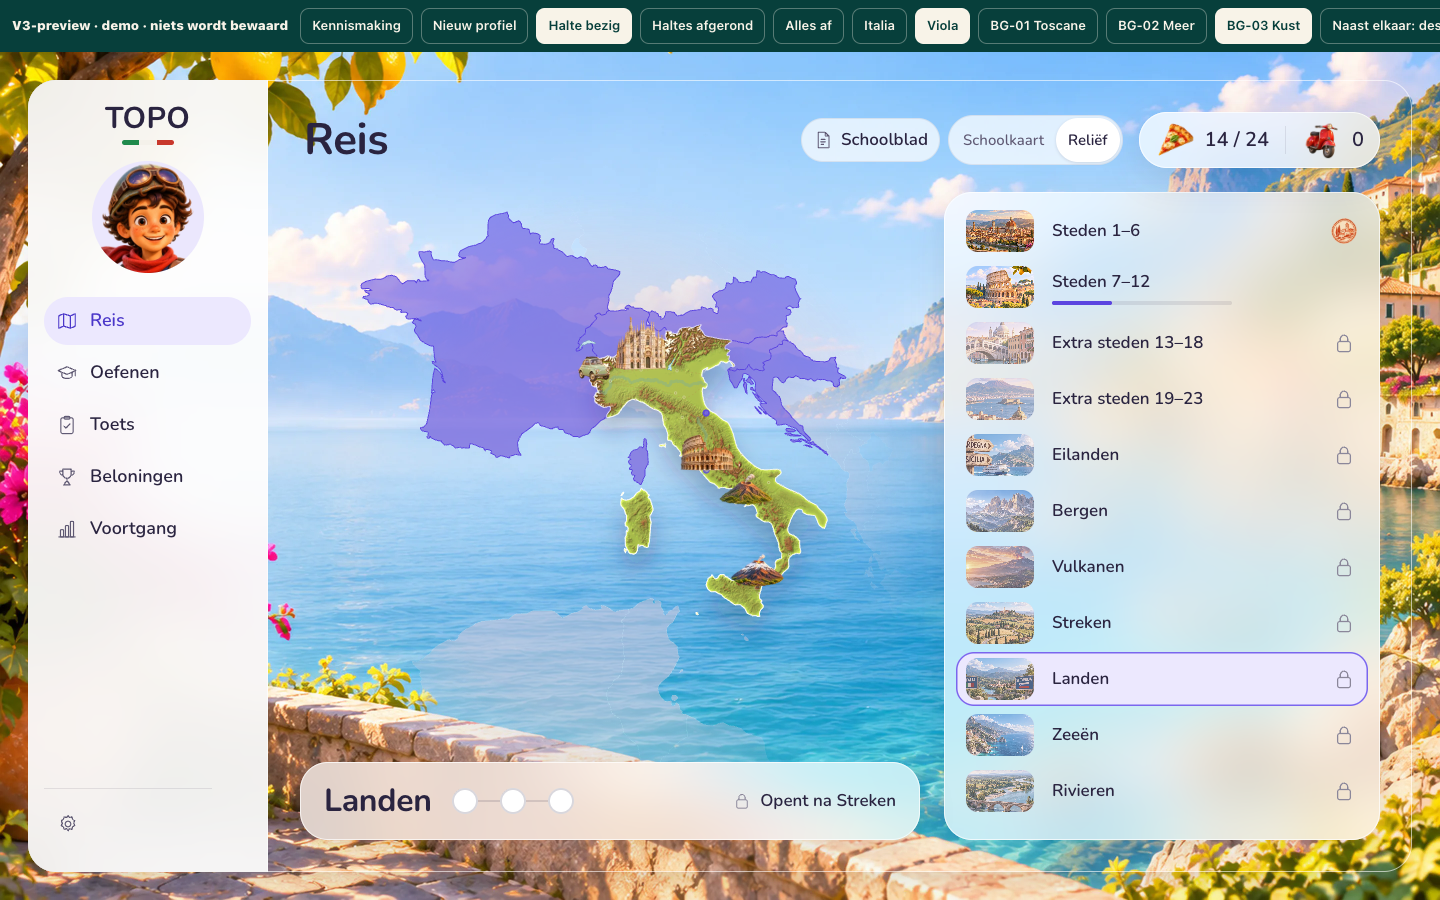
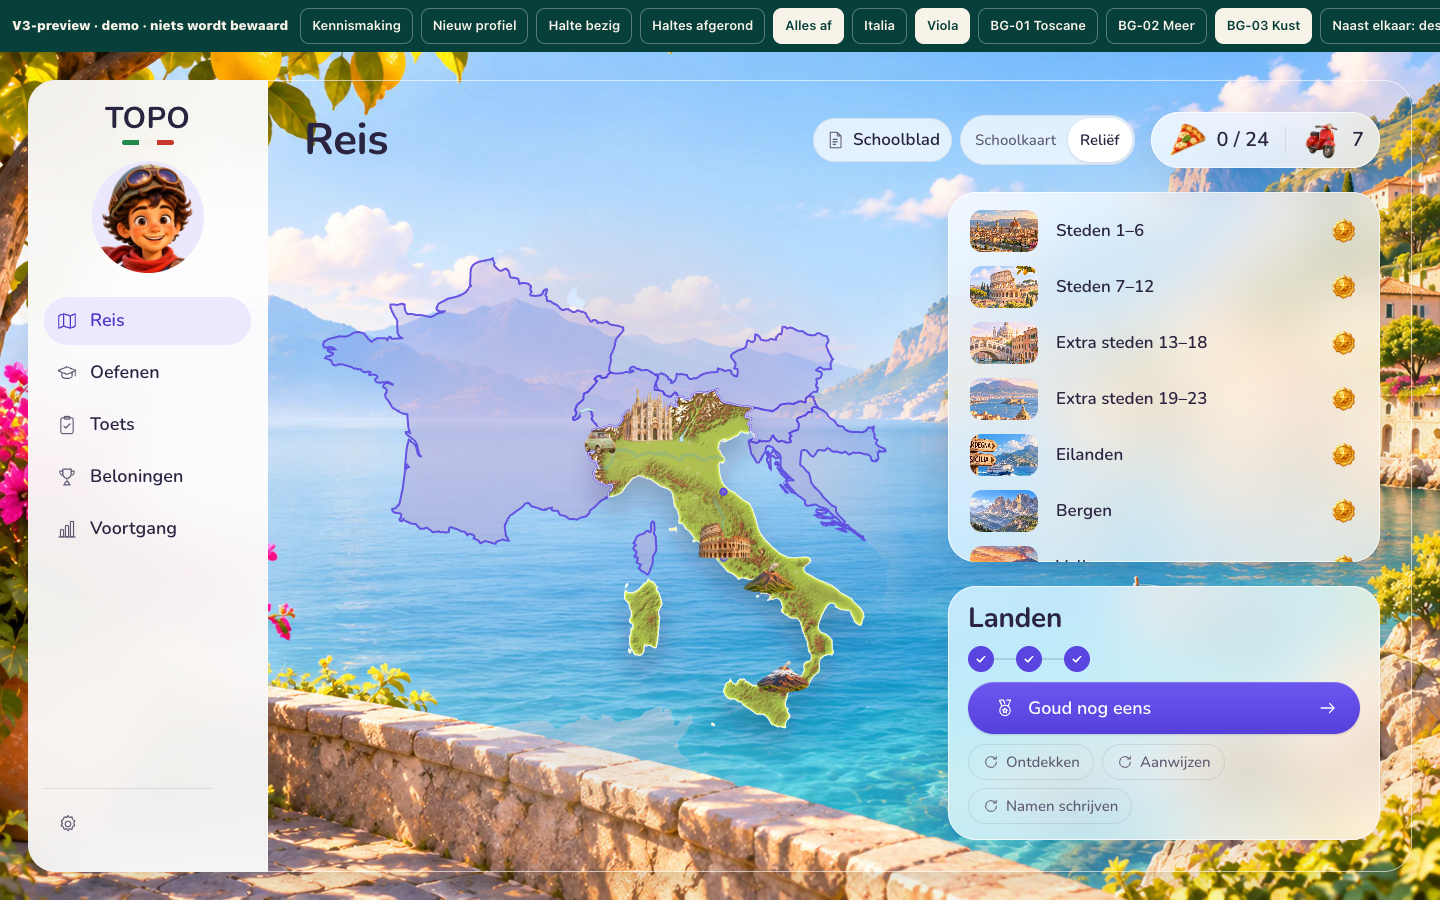
fix(v3): geef Landen een lichte tint en violette rand (5B punt 11)

diff --git a/scripts/v3/ronde5b.css b/scripts/v3/ronde5b.css
@@ -12,3 +12,6 @@
 @media(min-width:1024px) and (max-width:1279px){
  .v3Reis[data-view=reis] .v3Panel .v3CardTitle{font-size:24px}
 }
+
+/* Landen: preserve the map underneath; strong violet belongs to the outlines. */
+.v3MapStage .v3Map[data-focus=areas] .country.v3Hit{fill-opacity:.12!important;stroke:var(--v3-accent)!important;stroke-opacity:.9;stroke-width:2;vector-effect:non-scaling-stroke}
